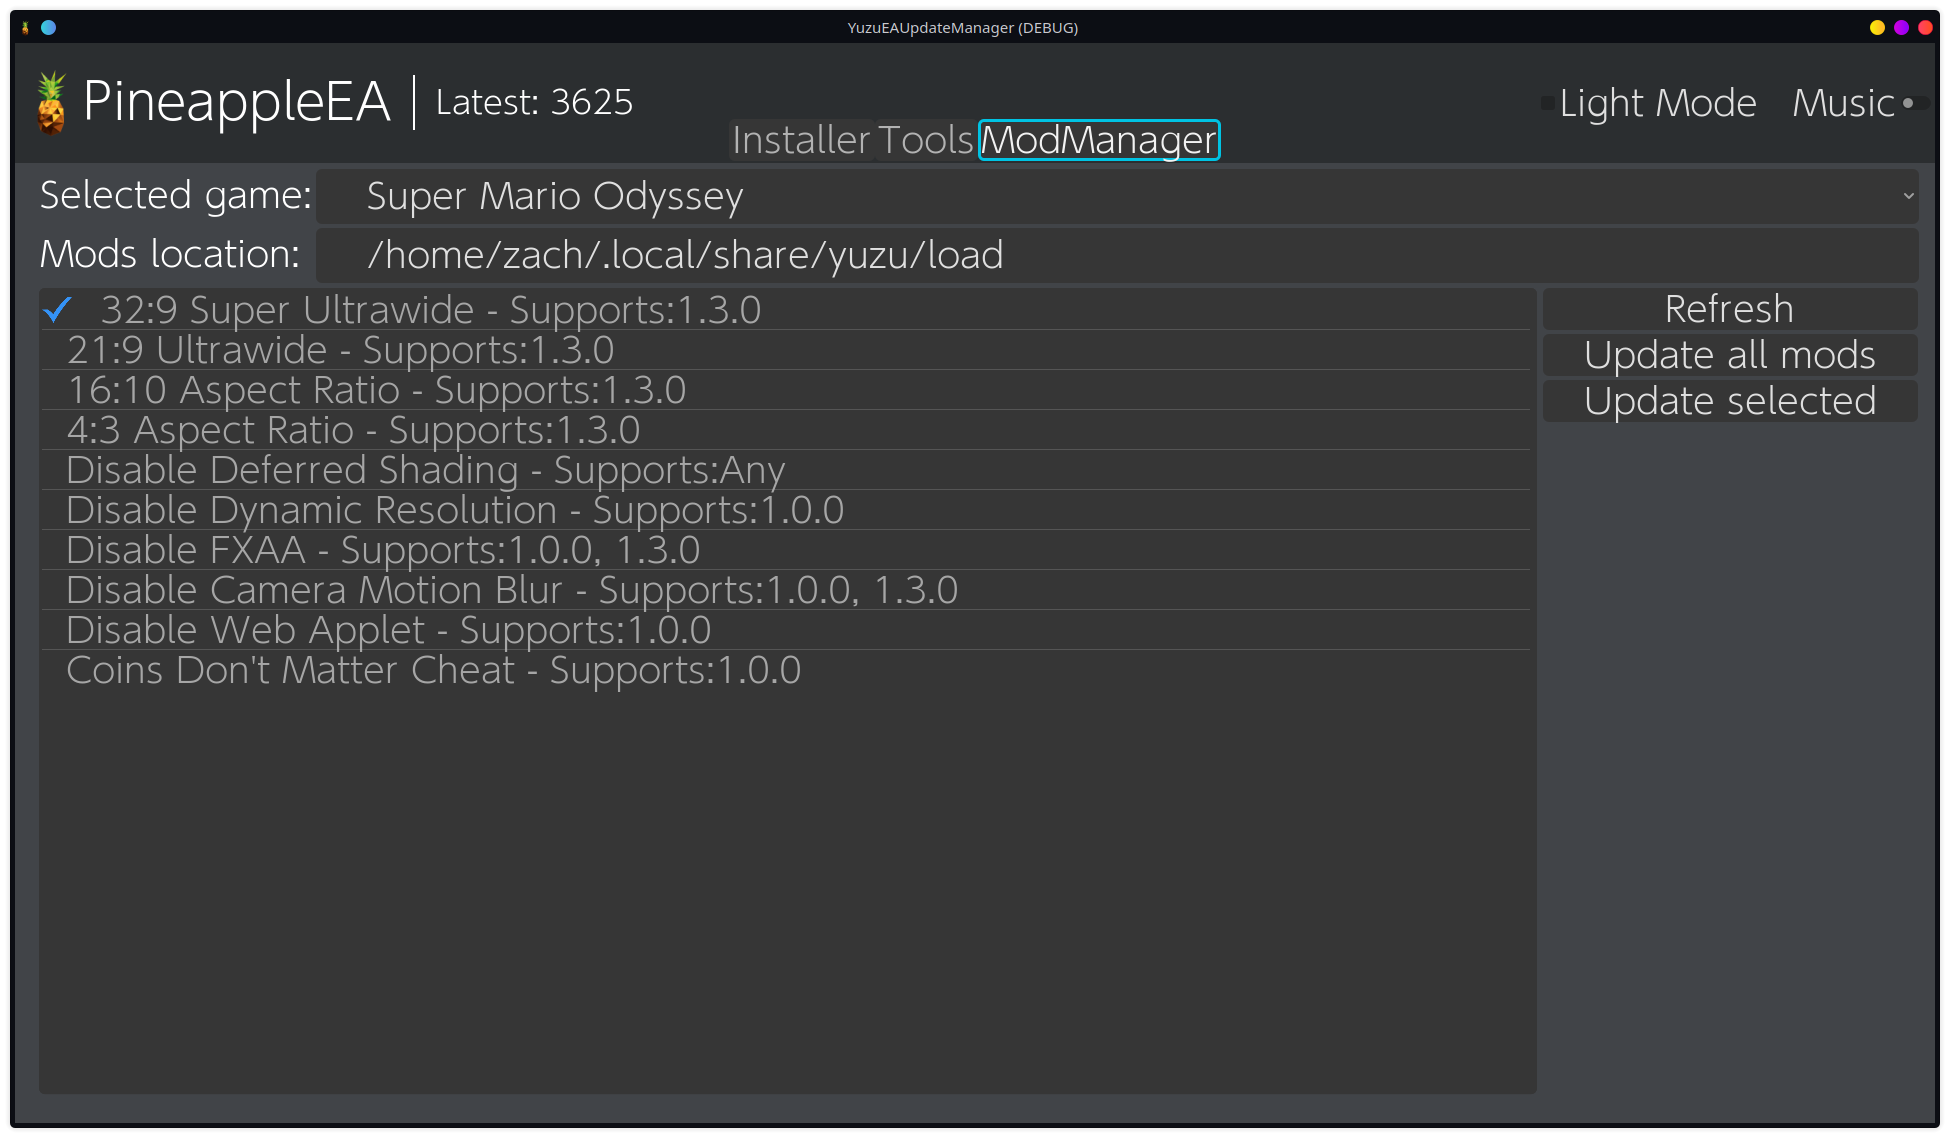
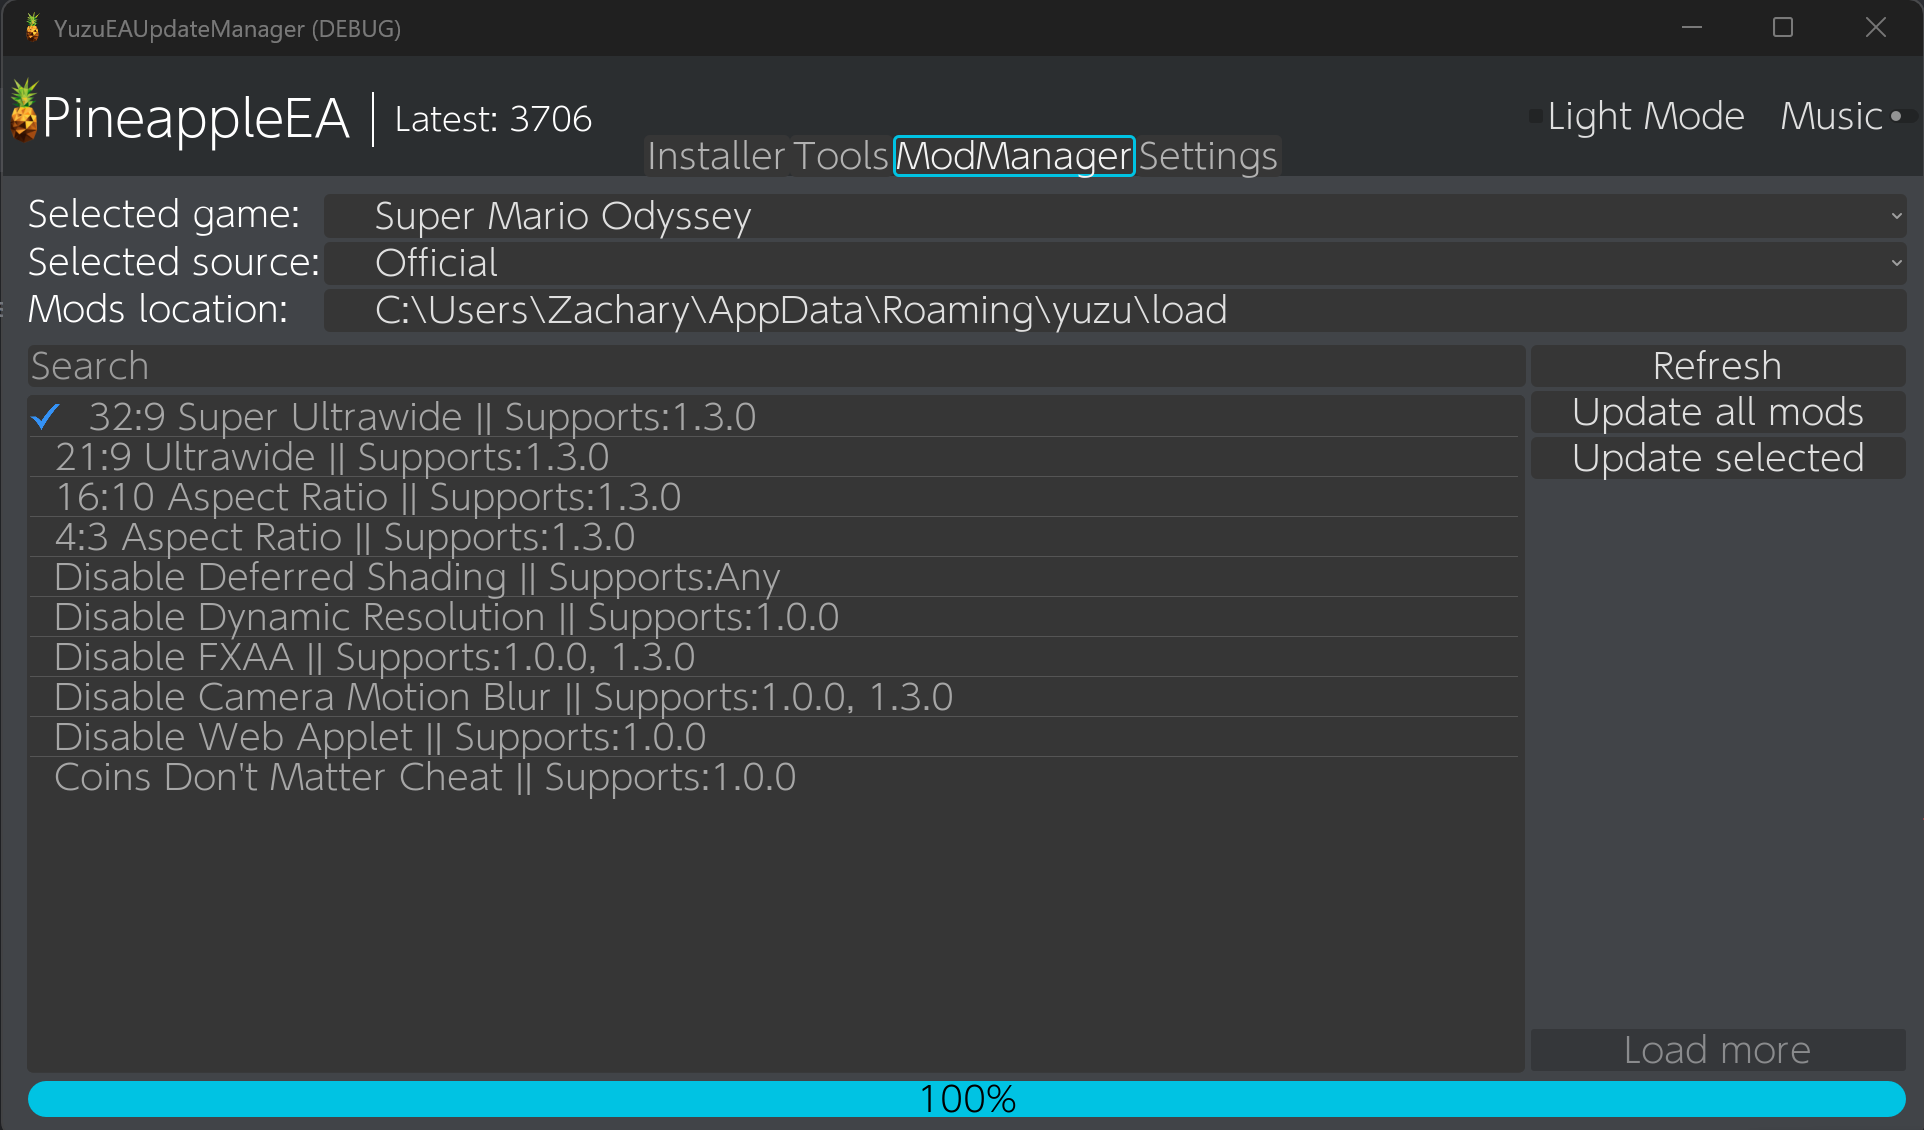
Fixed a bug where it only loaded available mods for the first game and updated demo images.

diff --git a/Scripts/SettingsPage.cs b/Scripts/SettingsPage.cs
@@ -1,0 +1,34 @@
+using Godot;
+using System;
+
+public partial class SettingsPage : Node
+{
+    [Export()] private ModManager _modManager;
+    [Export()] private PopupMenu _confirmationPopup;
+
+    private Tools _tools = new();
+    
+    
+    // Signal functions
+    private async void ResetSettingsPressed()
+    {
+        var confirm = await _tools.ConfirmationPopup(_confirmationPopup);
+        if (confirm != true)
+        {
+            return;
+        }
+        Globals.Instance.Settings = new SettingsResource();
+        Globals.Instance.SetDefaultPaths();
+    }
+
+
+    private async void ResetInstalledModsPressed()
+    {
+        var confirm = await _tools.ConfirmationPopup(_confirmationPopup);
+        if (confirm != true)
+        {
+            return;
+        }
+        _modManager.ResetInstalled();
+    }
+}

diff --git a/Scripts/ModManager.cs b/Scripts/ModManager.cs
@@ -133,6 +133,7 @@ public partial class ModManager : Control
 				{
 					_installedGames[gameId] = new() { GameName = gameName};
 					GetInstalledMods(gameId);
+					await Task.Run(async () => await GetAvailableMods(gameId, source));
 					_gamePickerButton.AddItem($@"    {gameName}");
 				}
 				else
@@ -147,9 +148,6 @@ public partial class ModManager : Control
 			// Sets the first game as selected by default
 			if (_installedGames.Count > 0)
 			{
-				// Sets the current game ID as default item and then gets the avaialable mods for the default game.
-				_currentGameId = GetGameIdFromValue(_gamePickerButton.GetItemText(0).Trim(), _installedGames);
-				await Task.Run(async () => await GetAvailableMods(_currentGameId, source));
 				SelectGame(0);
 			}
 			else

diff --git a/Scripts/Home.cs b/Scripts/Home.cs
@@ -72,7 +72,7 @@ public partial class Home : Control
 		_modList.IconScale = scaleRatio;
 		_modMangerLoadingSprite.Scale = new Vector2(scaleRatio, scaleRatio);
 		_modManagerLoadingLabel.AddThemeFontSizeOverride("font_size", (int)(scaleRatio * 64));
-		_headerLabel.AddThemeFontSizeOverride("font_size", (int)(scaleRatio * 76));
+		_headerLabel.AddThemeFontSizeOverride("font_size", (int)(scaleRatio * 49));
 		_latestVersionLabel.AddThemeFontSizeOverride("font_size", (int)(scaleRatio * 32));
 		_currentTheme.DefaultFontSize = Mathf.Clamp((int)(scaleRatio * 35), 20, 50);
 	}
